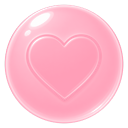
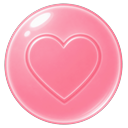
fix(ui): 心珠柔和玫粉重做，编队提示中文换行
重绘略深但不过深的心珠贴图；makeText 开启 breakWords，敌情长提示框内折行并抬高卡片。

diff --git a/src/scenes/teamEnemyIntelCard.ts b/src/scenes/teamEnemyIntelCard.ts
@@ -259,7 +259,6 @@ function drawThinGoldFrame(w: number, h: number): PIXI.Graphics {
 }
 
 function estimateInfoHeight(def: EnemyDef, stage: StageDef, contentW: number): number {
-  void contentW;
   let y = INFO_PAD * 2 + 32 + 52;
   const skillIds = (def.skillIds ?? []).slice(0, 2);
   if (skillIds.length > 0) {
@@ -268,8 +267,23 @@ function estimateInfoHeight(def: EnemyDef, stage: StageDef, contentW: number): n
   y += 34 + TIP_GAP;
   const tip = stage.hintText
     ?? (stage.hintTags?.length ? `本关：${stage.hintTags.join(' · ')}` : null);
-  if (tip) y += 36;
+  if (tip) {
+    const tipStr = tip.startsWith('本关') ? tip : `本关：${tip}`;
+    y += estimateStageTipHeight(tipStr, contentW);
+  }
   return Math.max(y, 160);
+}
+
+/** 与 buildStageTip 同宽测算，避免长中文提示撑破卡片却高度仍按单行估 */
+function estimateStageTipHeight(text: string, width: number): number {
+  const tipText = makeText(text, {
+    size: FONT_SIZE.xxs, fill: COLORS.textMain, bold: true, anchor: [0, 0],
+    wordWrapWidth: Math.max(40, width - 28),
+  });
+  try { tipText.updateText(true); } catch { /* noop */ }
+  const h = Math.max(28, Math.ceil(tipText.height) + 14);
+  tipText.destroy(true);
+  return h;
 }
 
 function skillBoxHeight(count: number): number {
@@ -439,8 +453,19 @@ function buildSkillBox(skillIds: readonly string[], width: number): SkillBox {
   return box;
 }
 
-function buildStageTip(text: string, width: number): PIXI.Container {
-  const c = new PIXI.Container();
+function buildStageTip(text: string, width: number): PIXI.Container & { tipH: number } {
+  const c = new PIXI.Container() as PIXI.Container & { tipH: number };
+  const wrapW = Math.max(40, width - 28);
+
+  const tipText = makeText(text, {
+    size: FONT_SIZE.xxs, fill: COLORS.textMain, bold: true, anchor: [0, 0],
+    wordWrapWidth: wrapW,
+  });
+  try { tipText.updateText(true); } catch { /* noop */ }
+  const textH = Math.max(FONT_SIZE.xxs, Math.ceil(tipText.height));
+  const tipH = Math.max(28, textH + 14);
+  c.tipH = tipH;
+
   const line = new PIXI.Graphics();
   line.lineStyle(1.5, PLATE_BORDER, 0.75);
   line.moveTo(0, 0);
@@ -448,14 +473,10 @@ function buildStageTip(text: string, width: number): PIXI.Container {
   c.addChild(line);
 
   const pine = drawPineMark(9);
-  pine.position.set(10, 20);
+  pine.position.set(10, 8 + FONT_SIZE.xxs / 2);
   c.addChild(pine);
 
-  const tipText = makeText(text, {
-    size: FONT_SIZE.xxs, fill: COLORS.textMain, bold: true, anchor: [0, 0.5],
-    wordWrapWidth: width - 28,
-  });
-  tipText.position.set(22, 20);
+  tipText.position.set(22, 8);
   c.addChild(tipText);
   return c;
 }

diff --git a/src/ui/text.ts b/src/ui/text.ts
@@ -16,6 +16,11 @@ export interface MakeTextOpts {
   anchor?: number | [number, number];
   /** 自动换行宽度 */
   wordWrapWidth?: number;
+  /**
+   * 中文等无空格文本换行（默认：开启 wordWrap 时为 true）。
+   * PIXI 默认只按空格断行，不设则中文会长串溢出。
+   */
+  breakWords?: boolean;
   align?: 'left' | 'center' | 'right';
   /** 描边色（用于亮底上的强调标题），不传则无描边 */
   strokeColor?: number;
@@ -41,6 +46,9 @@ export function makeText(content: string, opts: MakeTextOpts = {}): PIXI.Text {
   if (opts.wordWrapWidth) {
     style.wordWrap = true;
     style.wordWrapWidth = opts.wordWrapWidth;
+    style.breakWords = opts.breakWords ?? true;
+  } else if (opts.breakWords !== undefined) {
+    style.breakWords = opts.breakWords;
   }
   if (opts.strokeColor !== undefined) {
     style.stroke = opts.strokeColor;

diff --git a/src/balance/ui.ts b/src/balance/ui.ts
@@ -19,7 +19,7 @@ export const ORB_COLOR: Readonly<Record<OrbType, number>> = {
   water: 0x0a5ef0,
   fire: 0xd6453a,
   earth: 0x8f5a36,
-  heart: 0xff8fb8,
+  heart: 0xf48fb1,
 };
 
 export const UI = {